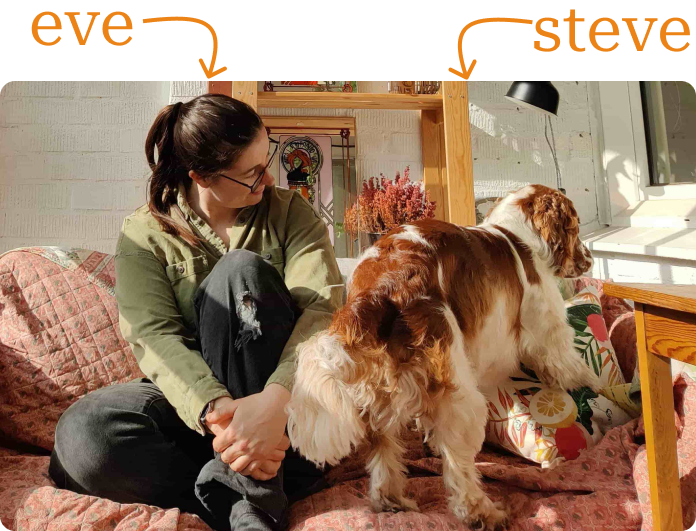
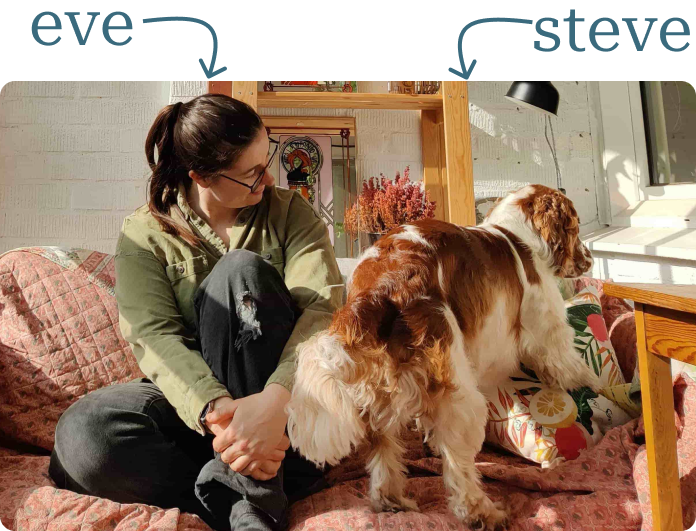
Colors changed to look less irish

diff --git a/src/components/LandingPage/index.tsx b/src/components/LandingPage/index.tsx
@@ -10,7 +10,7 @@ const LandingPage = () => {
   return (
     <div className={styles.LandingPage}>
       <div className={styles.information}>
-        <img className={styles.screens} src="screens.png" alt="" />
+        <img className={styles.screens} src="screens-blue.png" alt="" />
         <div className={styles.intro}>
           <h1 className={styles.bigTitle}>
             evesteve web<span>.</span>
@@ -37,13 +37,13 @@ const LandingPage = () => {
           <div className={styles.btns}>
             <Link to={"/priser"}>
               <button className={styles.buttons}>
-                beräkna ditt pris{"   "}
+                Beräkna ditt pris{"   "}
                 <FontAwesomeIcon icon={faCalculator} />
               </button>
             </Link>
             <Link to={"/kontakt"}>
               <button className={styles.buttons}>
-                ta kontakt <FontAwesomeIcon icon={faPhone} />
+                Ta kontakt <FontAwesomeIcon icon={faPhone} />
               </button>
             </Link>
           </div>
@@ -57,13 +57,13 @@ const LandingPage = () => {
           <div className={styles.btns}>
             <Link to={"/priser"}>
               <button className={styles.buttons}>
-                beräkna ditt pris{"   "}
+                Beräkna ditt pris{"   "}
                 <FontAwesomeIcon icon={faCalculator} />
               </button>
             </Link>
             <Link to={"/kontakt"}>
               <button className={styles.buttons}>
-                ta kontakt <FontAwesomeIcon icon={faPhone} />
+                Ta kontakt <FontAwesomeIcon icon={faPhone} />
               </button>
             </Link>
           </div>

diff --git a/src/components/LandingPage/styles.module.css b/src/components/LandingPage/styles.module.css
@@ -1,10 +1,3 @@
-:root {
-  --background-color: #f8f5e9;
-  --text-color: #3a7d44;
-  --light-green: #9dc08b;
-  --orange-color: #df6d14;
-}
-
 /* Huvudlayout */
 .LandingPage {
   display: flex;
@@ -50,10 +43,6 @@
   margin-bottom: -1rem;
 }
 
-span {
-  color: #df6d14;
-}
-
 .title {
   font-size: 2rem;
   /* font-style: italic; */
@@ -93,25 +82,19 @@ span {
 }
 
 .buttons {
-  /* margin: 1rem 0; */
-  background-color: var(--transparent-green); /* light green w/ opacity */
-  color: var(--text-color);
-  /* border-top: var(--text-color) 2px solid; */
-  border-bottom: var(--text-color) 2px solid;
+  background-color: var(--text-color); /* light green w/ opacity */
+  color: var(--background-color);
+  box-shadow: 0 4px 10px #030f1326;
   font-weight: 600;
   font-size: 1rem;
   transition: ease-in-out 0.3s;
+  transition: transform 0.2s ease-in-out;
   width: 100%;
   /* width: 40%; */
 }
 
 .buttons:hover {
-  border-bottom: var(--orange-color) 2px solid;
-}
-
-.buttons:hover svg {
-  color: var(--orange-color);
-  border: none;
+  transform: translateY(-3px); /* Moves button up slightly */
 }
 
 @media (max-width: 1100px) {
@@ -164,6 +147,14 @@ span {
     padding: 0.5rem;
   }
 
+  .bigTitle {
+    text-align: left;
+    padding: 0;
+  }
+
+  .title {
+    font-size: 1.5rem;
+  }
   .theTeam {
     width: 100%;
   }

diff --git a/src/styles/footer.css b/src/styles/footer.css
@@ -1,10 +1,8 @@
 .footer {
   width: 100%;
-  min-height: 14vh;
+  min-height: 10vh;
   z-index: 1;
-  background-image: url("/footer-new.png");
-  background-position: center;
-  background-size: cover;
+  background-color: var(--text-color);
   padding: 0.5rem;
   display: flex;
   justify-content: center;
@@ -41,6 +39,7 @@
 .socials svg:hover {
   color: var(--orange-color);
   cursor: pointer;
+  transform: translateY(-3px);
 }
 
 @media (max-width: 1100px) {
@@ -48,7 +47,7 @@
     height: 20vh;
   }
   .footer-contact {
-    font-size: 0.8rem;
+    font-size: 1rem;
     text-align: left;
     line-height: 1;
   }
@@ -56,8 +55,8 @@
 /* Responsiv design */
 @media (max-width: 500px) {
   .footer {
-    min-height: 15em;
-    margin-top: -4rem;
+    min-height: 10rem;
+    /* margin-top: -4rem; */
   }
 
   .footer-contact {

diff --git a/src/components/FAQ/styles.module.css b/src/components/FAQ/styles.module.css
@@ -1,9 +1,9 @@
 /* FAQ.module.css */
 :root {
-  --bg-light: #f8f5e9;
-  --text-dark: #3a7d44;
-  --accent-light: rgba(157, 192, 139, 0.1);
-  --accent-strong: #9dc08b;
+  --bg-light: var(--background-color);
+  --text-dark: var(--text-color);
+  --accent-light: rgba(139, 161, 192, 0.1);
+  --accent-strong: #8ba8c0;
 }
 
 .container {
@@ -45,7 +45,7 @@
 }
 
 .question:hover {
-  background: rgba(157, 192, 139, 0.2);
+  background: rgba(139, 162, 192, 0.2);
 }
 /* Lägg till efter befintliga .question och .answer */
 
@@ -53,7 +53,7 @@
   /* padding-right: 0.75rem; */
   transition: transform 0.3s;
   transform: rotate(0deg);
-  color: var(--orange-color);
+  color: var(--text-color);
 }
 
 .iconOpen {

diff --git a/src/components/PriceCalculator/styles.module.css b/src/components/PriceCalculator/styles.module.css
@@ -2,11 +2,11 @@
   width: 100%;
   margin: 0 auto;
   padding: 1rem;
-  background: #f8f5e9;
+  background: var(--background-color);
   border-radius: 0.5rem;
   box-shadow: 0 4px 10px rgba(0, 0, 0, 0.05);
   font-family: "Roboto" sans-serif;
-  color: #3a7d44;
+  color: var(--text-color);
   margin-bottom: 1rem;
 }
 
@@ -116,15 +116,18 @@ button:active {
   border: none;
   color: var(--text-color);
   cursor: pointer;
-  padding-left: 0.5rem;
   font-size: 1rem;
   transition: color 0.2s;
   border: none;
 }
 
+.infoBtnInline {
+  margin-left: 1rem;
+}
+
 .infoBtn:hover,
 .infoBtnInline:hover {
-  color: var(--accent-strong);
+  color: var(--transparent-green);
 }
 
 .infoBtn:active {

diff --git a/src/components/CardComponent/styles.module.css b/src/components/CardComponent/styles.module.css
@@ -14,11 +14,12 @@
   align-items: center;
   justify-content: center;
   gap: 0.6rem;
-  background-color: rgba(157, 192, 139, 0.1);
+  background-color: rgba(139, 176, 192, 0.1);
   padding: 0.75rem 1rem;
   border-radius: 8px;
   transition: background-color 0.3s ease;
   height: 12rem;
+  transition: transform 0.2s ease-in-out;
 }
 
 .pitchCard div {
@@ -40,9 +41,10 @@
 }
 
 .pitchCard:hover {
-  background-color: rgba(157, 192, 139, 0.2);
+  background-color: rgba(139, 158, 192, 0.2);
   cursor: pointer;
   color: var(--text-color);
+  transform: translateY(-3px);
 }
 
 /* Change icon color on hover */

diff --git a/src/styles/header.css b/src/styles/header.css
@@ -1,7 +1,7 @@
 header {
   width: 100%;
   min-height: 10vh;
-  background-image: url("/header-waves.png");
+  background-image: url("/header-blue.png");
   background-position: bottom;
   background-size: cover;
   font-family: "Roboto", serif;
@@ -106,6 +106,7 @@ header {
     width: 100%;
     text-transform: uppercase;
     letter-spacing: 1px;
+    font-family: serif;
   }
 
   .nav-links.active {
@@ -125,6 +126,12 @@ header {
 
   .nav-links {
     font-size: 1rem;
+  }
+}
+
+@media (max-width: 768px) {
+  header {
+    min-height: 5rem;
   }
 }
 @media (max-width: 500px) {

diff --git a/src/components/ContactForm/index.tsx b/src/components/ContactForm/index.tsx
@@ -34,6 +34,7 @@ const ContactForm = () => {
   return (
     <form ref={form} onSubmit={sendEmail} className={styles.form}>
       <input type="text" name="name" placeholder="Ditt namn" required />
+      <input type="email" name="email" placeholder="din@email.com" required />
       <input type="text" name="company" placeholder="Företag" />
       <input type="text" name="deadline" placeholder="Deadline (valfritt)" />
       <textarea name="message" placeholder="Ditt meddelande" required />

diff --git a/src/App.css b/src/App.css
@@ -8,11 +8,11 @@
 
 /* this is a global declaration*/
 :root {
-  --background-color: #f8f5e9;
-  --text-color: #3a7d44;
-  --light-green: #9dc08b;
-  --orange-color: #df6d14;
-  --transparent-green: rgba(157, 192, 139, 0.3);
+  --background-color: #e9f5f8;
+  --text-color: #3a6a7d;
+  --light-green: #8bc0bf;
+  --orange-color: #85b8cb;
+  --transparent-green: rgba(58, 106, 125, 0.3);
 }
 
 #root {

diff --git a/src/components/ContactForm/styles.module.css b/src/components/ContactForm/styles.module.css
@@ -1,7 +1,7 @@
 .form {
   display: flex;
   flex-direction: column;
-  gap: 1rem;
+  gap: 0.5rem;
   width: 100%;
 }
 
@@ -26,7 +26,7 @@
 }
 
 .form button {
-  background-color: rgba(223, 108, 20, 0.3);
+  background-color: rgba(58, 106, 125, 0.3);
   color: white;
   border: none;
   padding: 0.75rem 1rem;

diff --git a/src/components/PriceCalculator/index.tsx b/src/components/PriceCalculator/index.tsx
@@ -97,7 +97,7 @@ const PriceCalculator: React.FC<Props> = ({ onInfoClick }) => {
 
   return (
     <div className={styles.calculator}>
-      <h2>prisräknare</h2>
+      <h2>vad kostar en hemsida?</h2>
 
       <div className={styles.inputGroup}>
         <label>

diff --git a/src/components/ContactPage/styles.module.css b/src/components/ContactPage/styles.module.css
@@ -13,6 +13,7 @@
 }
 
 .contactContainer {
+  margin-top: 1rem;
   width: 100%;
   display: grid;
   grid-template-columns: 1fr 1fr;
